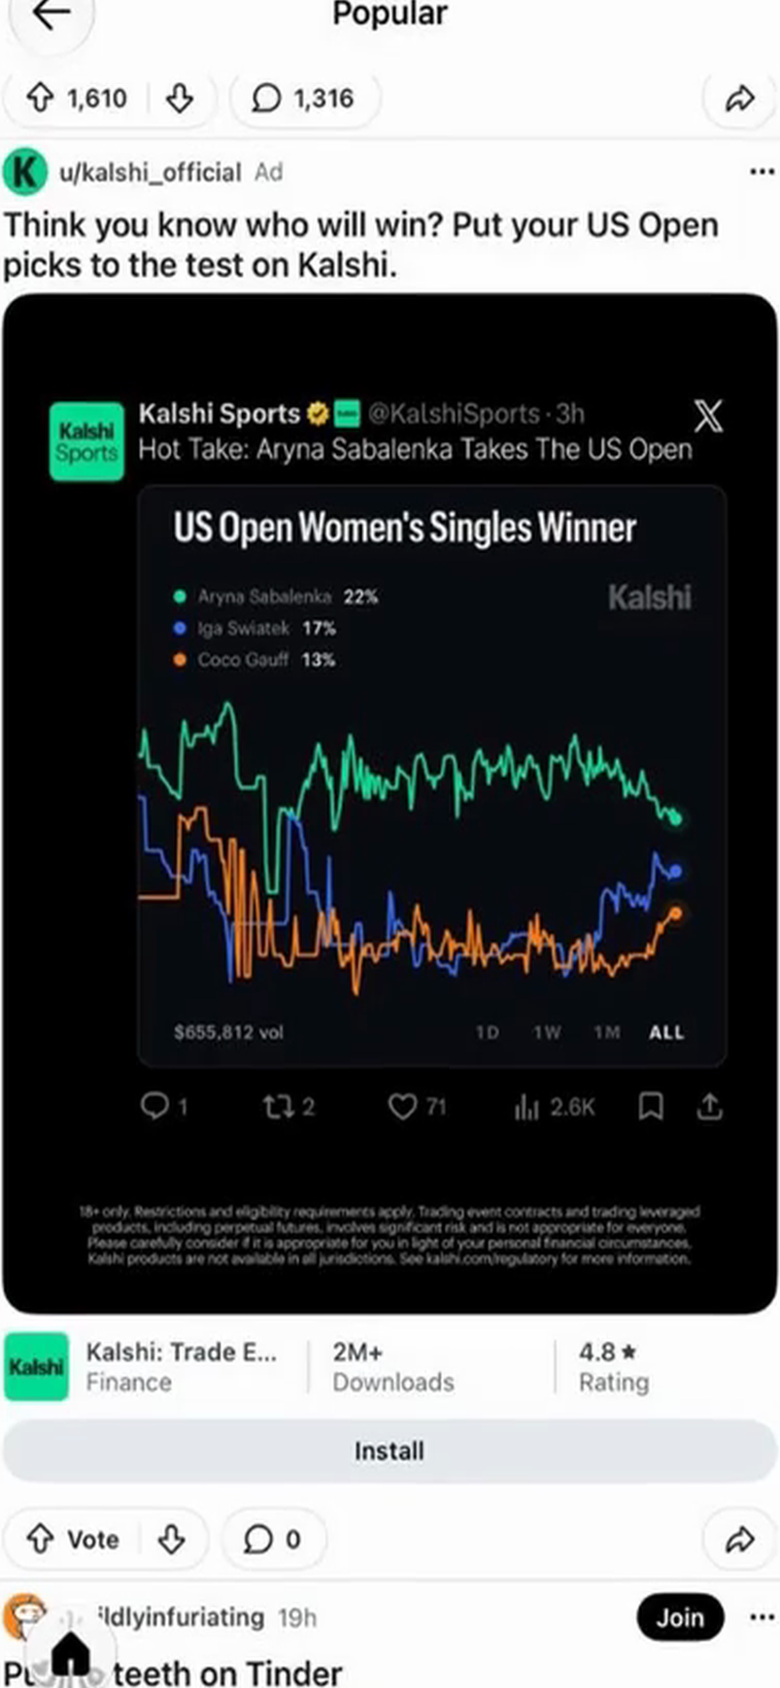
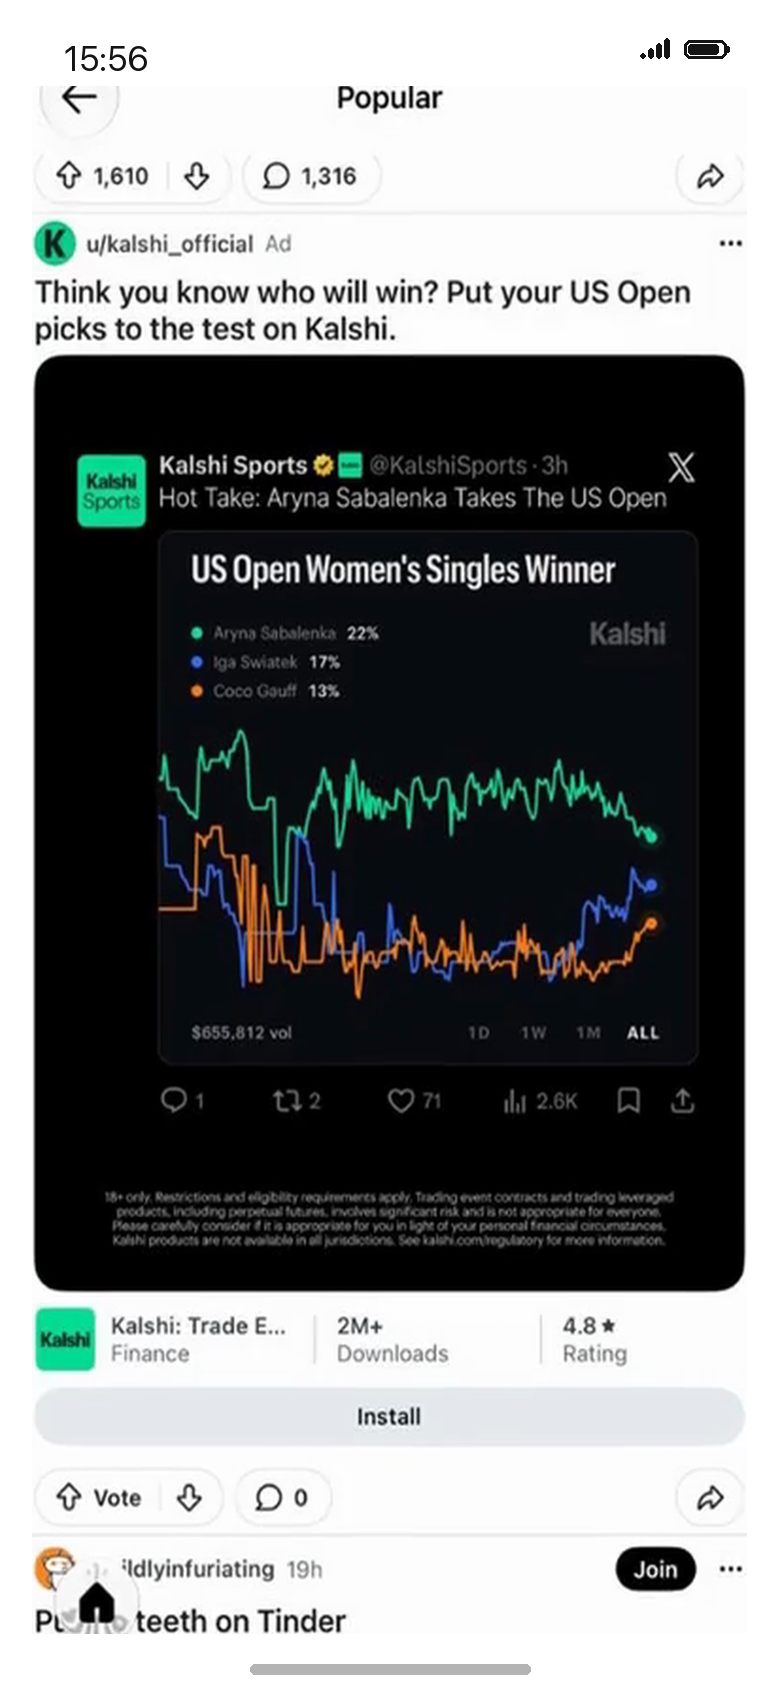
fix(routes): compose native ad safe area with status bar and eliminate yellow focus box on modal close

diff --git a/src/components/solutions/RoutesDeviceModal.tsx b/src/components/solutions/RoutesDeviceModal.tsx
@@ -37,6 +37,13 @@ export function RoutesDeviceModal({
   const finish = mode === "growth" ? "deepblue" : "accent";
   const total = formats?.length ?? 1;
 
+  const handleClose = () => {
+    if (typeof document !== "undefined" && document.activeElement instanceof HTMLElement) {
+      document.activeElement.blur();
+    }
+    onClose();
+  };
+
   useEffect(() => {
     if (!open) return;
     const root = document.documentElement;
@@ -45,7 +52,7 @@ export function RoutesDeviceModal({
     const onKeyDown = (e: KeyboardEvent) => {
       if (e.key === "Escape") {
         e.preventDefault();
-        onClose();
+        handleClose();
       } else if (e.key === "ArrowRight" && formats && onSelectIndex && total > 1) {
         e.preventDefault();
         onSelectIndex((index + 1) % total);
@@ -77,7 +84,7 @@ export function RoutesDeviceModal({
           animate={{ opacity: 1 }}
           exit={{ opacity: 0 }}
           transition={reduced ? { duration: 0.12 } : { duration: 0.22 }}
-          onClick={onClose}
+          onClick={handleClose}
         >
           {/* Top bar: format metadata + 44x44 close button */}
           <div
@@ -94,7 +101,7 @@ export function RoutesDeviceModal({
 
             <button
               type="button"
-              onClick={onClose}
+              onClick={handleClose}
               aria-label="Close preview"
               className="routes-device-modal__close"
             >

diff --git a/src/styles/programmatic-scroll-section.css b/src/styles/programmatic-scroll-section.css
@@ -1503,13 +1503,14 @@
 
 .prog-device-slot--interactive {
   cursor: zoom-in;
-  outline: none;
+  outline: none !important;
+  -webkit-tap-highlight-color: transparent;
 }
 
+.prog-device-slot--interactive:focus,
 .prog-device-slot--interactive:focus-visible {
-  outline: 2px solid var(--theme-accent);
-  outline-offset: 8px;
-  border-radius: 1.5rem;
+  outline: none !important;
+  box-shadow: none !important;
 }
 
 .prog-device-slot__zoom-badge {

diff --git a/docs/STATE-BACKUP-OCT16.md b/docs/STATE-BACKUP-OCT16.md
@@ -52,3 +52,14 @@
 - In [`src/components/solutions/Phone3D.tsx`](file:///Users/homeboylebz/Downloads/%D0%9D%D0%9E%D0%92%D0%AB%D0%99%20%D0%A1%D0%90%D0%99%D0%A2%20UPRAISER/src/components/solutions/Phone3D.tsx):
   - Added left, right, and bottom rim lights (`intensity: 2.2 / 1.4`) and `hemisphereLight` to sculpt the phone's physical form against dark backgrounds.
   - Rebalanced titanium chassis material to `metalness: 0.45`, `roughness: 0.34`, and `envMapIntensity: 1.6` so the phone body renders as polished natural titanium with crisp physical bevels rather than an invisible black silhouette.
+
+### J. Native Ad Creative Safe Area & Status Bar Composition
+- In [`public/channels/programmatic-refs/screens/native.png`](file:///Users/homeboylebz/Downloads/%D0%9D%D0%9E%D0%92%D0%AB%D0%99%20%D0%A1%D0%90%D0%99%D0%A2%20UPRAISER/public/channels/programmatic-refs/screens/native.png):
+  - Added authentic iOS status bar (clock `15:56`, cellular, wifi, battery icons) on `#ffffff` background, shifting the Reddit header ("Popular" and back arrow `<`) down below the Dynamic Island.
+  - Provided clean horizontal safe area margins and bottom iOS Home Indicator bar so Reddit content, Kalshi chart, and action buttons are never clipped by the phone's curved screen corners.
+
+### K. Removal of Persistent Yellow Focus Frame on Modal Dismiss
+- In [`src/styles/programmatic-scroll-section.css`](file:///Users/homeboylebz/Downloads/%D0%9D%D0%9E%D0%92%D0%AB%D0%99%20%D0%A1%D0%90%D0%99%D0%A2%20UPRAISER/src/styles/programmatic-scroll-section.css#L1504-L1513):
+  - Replaced `.prog-device-slot--interactive:focus-visible` yellow outline with `outline: none !important; box-shadow: none !important;`.
+- In [`src/components/solutions/RoutesDeviceModal.tsx`](file:///Users/homeboylebz/Downloads/%D0%9D%D0%9E%D0%92%D0%AB%D0%99%20%D0%A1%D0%90%D0%99%D0%A2%20UPRAISER/src/components/solutions/RoutesDeviceModal.tsx#L40-L46):
+  - Added active element blurring on modal close (`document.activeElement.blur()`), ensuring no residual selection box remains on macOS or Windows upon closing.
